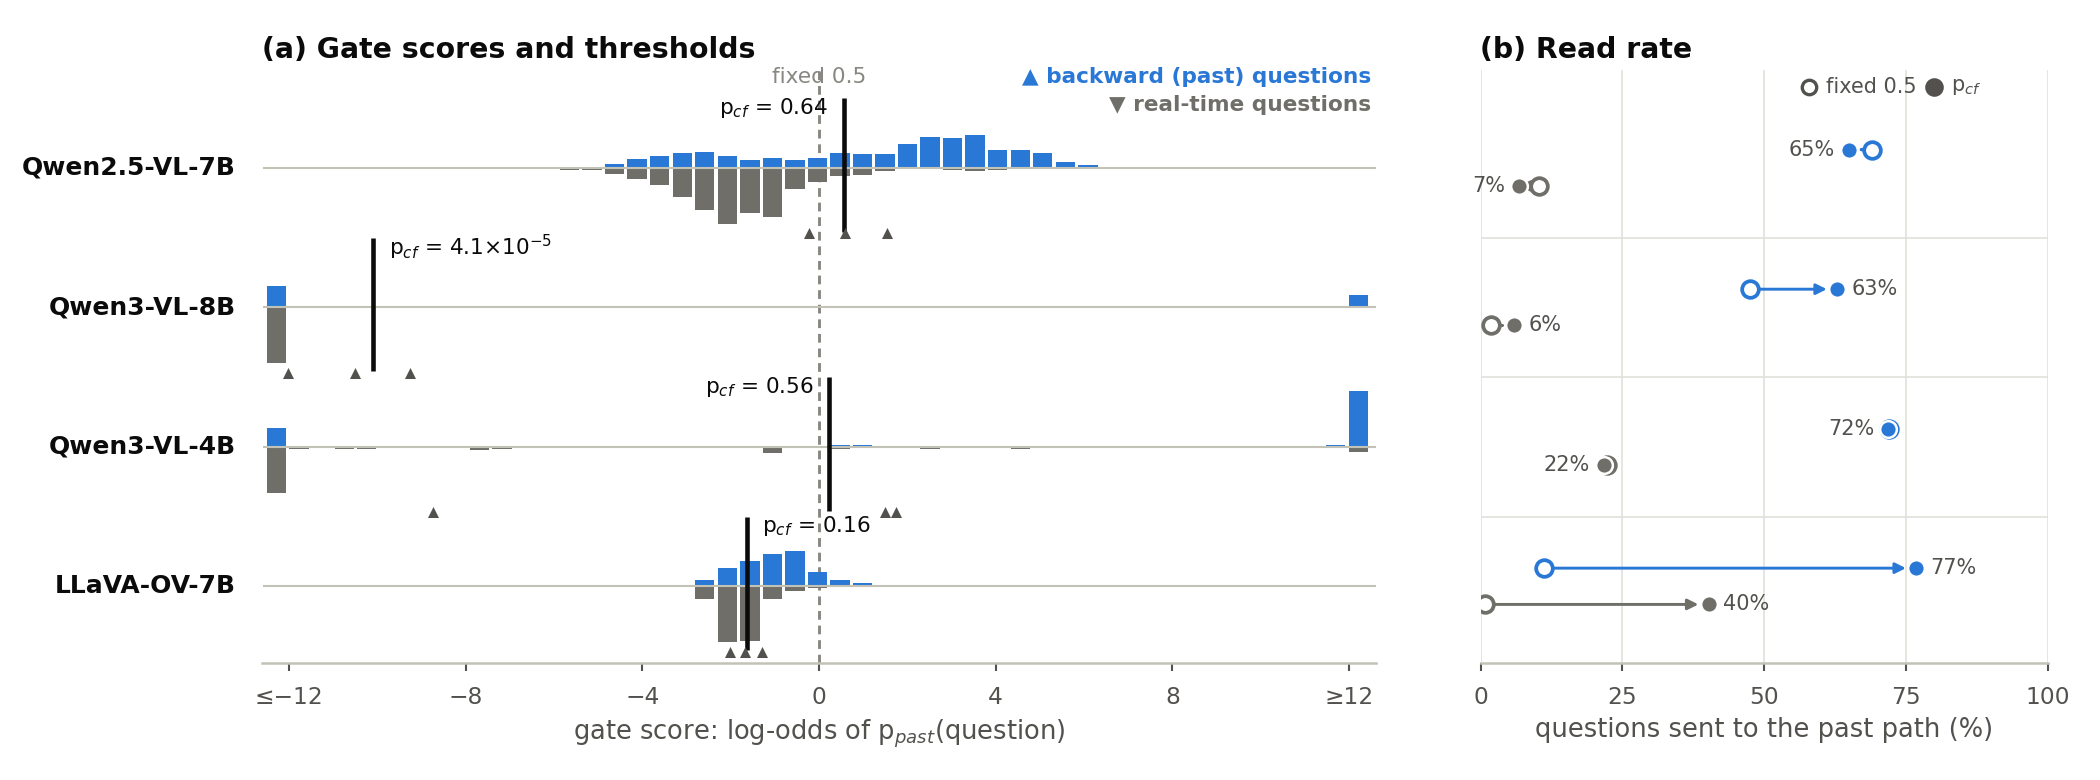
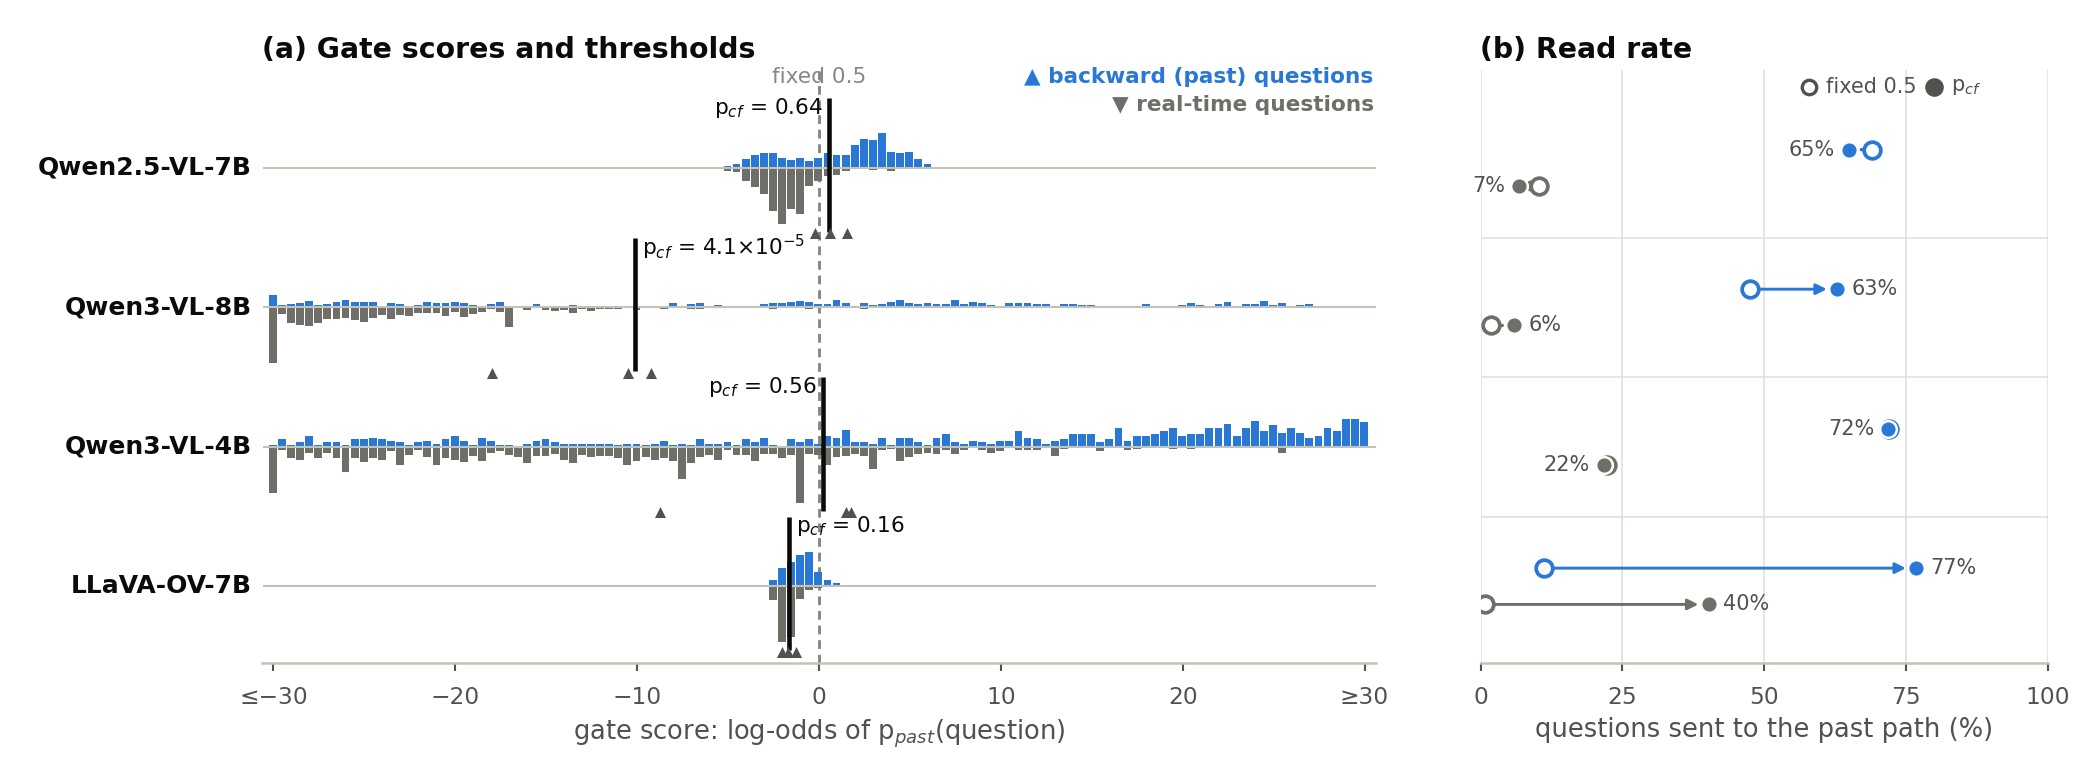
Round 17 results: conditional abstention instruction reproduces offline numbers exactly; replaces R1; fig3 redrawn with exact log-odds
Claude-Session: https://claude.ai/code/session_01H2K6FZrueKf9qxHnWF5mgr

diff --git a/paper/figs/fig3_calibration.py b/paper/figs/fig3_calibration.py
@@ -66,7 +66,7 @@ def ridge(ax, rows):
     exact = all(r["exact"] for r in rows)
     span = max(abs(x) for r in rows for xs in r["lo"].values() for x in xs)
     LIM = float(min(30, max(12, math.ceil(span)))) if exact else 12.0
-    bins = np.linspace(-LIM - 0.5, LIM + 0.5, 61 if exact else 50)
+    bins = np.linspace(-LIM - 0.25, LIM + 0.25, 122 if exact else 50)
     H = 0.40
     for i, r in enumerate(rows):
         y0 = len(rows) - 1 - i

diff --git a/EXPERIMENTS.md b/EXPERIMENTS.md
@@ -1499,3 +1499,23 @@ D-HSM ③ 的检索上下文和我们整条时间线在同一批题上：EPM 13 
 - route 重跑：1468 题的 p_past 与原 route.json 逐字相同，sigmoid(lo) 与 p_past 在舍入误差内一致。
 
 **通过后的处理**：主方法 = 时间线 + 门 (a) + 条件弃答指令（注明取自 D-HSM）；R1 从方法中去掉；主表换成本轮数字；图 3 改用 log-odds 重画。
+
+### 第十七轮结果（11-03 20:35 JST，13 个任务全部正常，`python3 kfs/analyze_round17.py`）
+
+**检查**：全部通过。
+- 冒烟 `261103-202755-smoke_r17`：带弃答选项的 5 题与 `r4_inj_instr` 逐字相同，不带的 5 题与 `r4_ss` 逐字相同。
+- 正式 187 题：Qwen2.5 / Qwen3-8B / 4B 的近 4 帧与 cap16 共 6 个任务，p_opts 与第十六轮 `*_inj_instr` 都是 187/187 逐字相同；标准 OVO 与离线组合差 0.00。
+- route 重跑：4 个骨干 1468/1468 的 p_past 与原记录逐字相同，p_cf 不变；log-odds 范围 Qwen2.5 [−5.9, 6.0]、Qwen3-8B [−36.2, 29.0]、4B [−34.1, 30.7]、LLaVA-OV [−3.0, 1.3]。
+
+**标准 OVO（门 (a) + 条件弃答指令，括号内为相对 SimpleStream）**
+
+| | Qwen2.5 | Qwen3-8B | Qwen3-4B | LLaVA-OV |
+|---|---|---|---|---|
+| SimpleStream | 64.75 | 67.66 | 67.42 | 59.15 |
+| 门 (a) | 67.02 (+2.27) | 70.39 (+2.72) | 68.08 (+0.67) | 60.07 (+0.92) |
+| **门 (a) + 条件指令** | **70.78 (+6.03)** | **73.34 (+5.68)** | **72.60 (+5.18)** | **61.60 (+2.45)** |
+| RT | 77.84 | 81.65 | 80.19 | 74.06 |
+| 参照：SimpleStream + 条件指令 | 68.88 | 71.87 | 71.48 | 60.32 |
+
+- SB-RT 没有弃答选项，数字不变（相对 SimpleStream −0.20 / +1.36 / +1.48 / +0.28）。
+- 按事先约定：主方法 = 时间线 + 门 (a) + 条件弃答指令（取自 D-HSM，需引用）；R1 从方法中去掉。图 3 已改用 log-odds 重画（`paper/figs/fig3_calibration.py`）。
